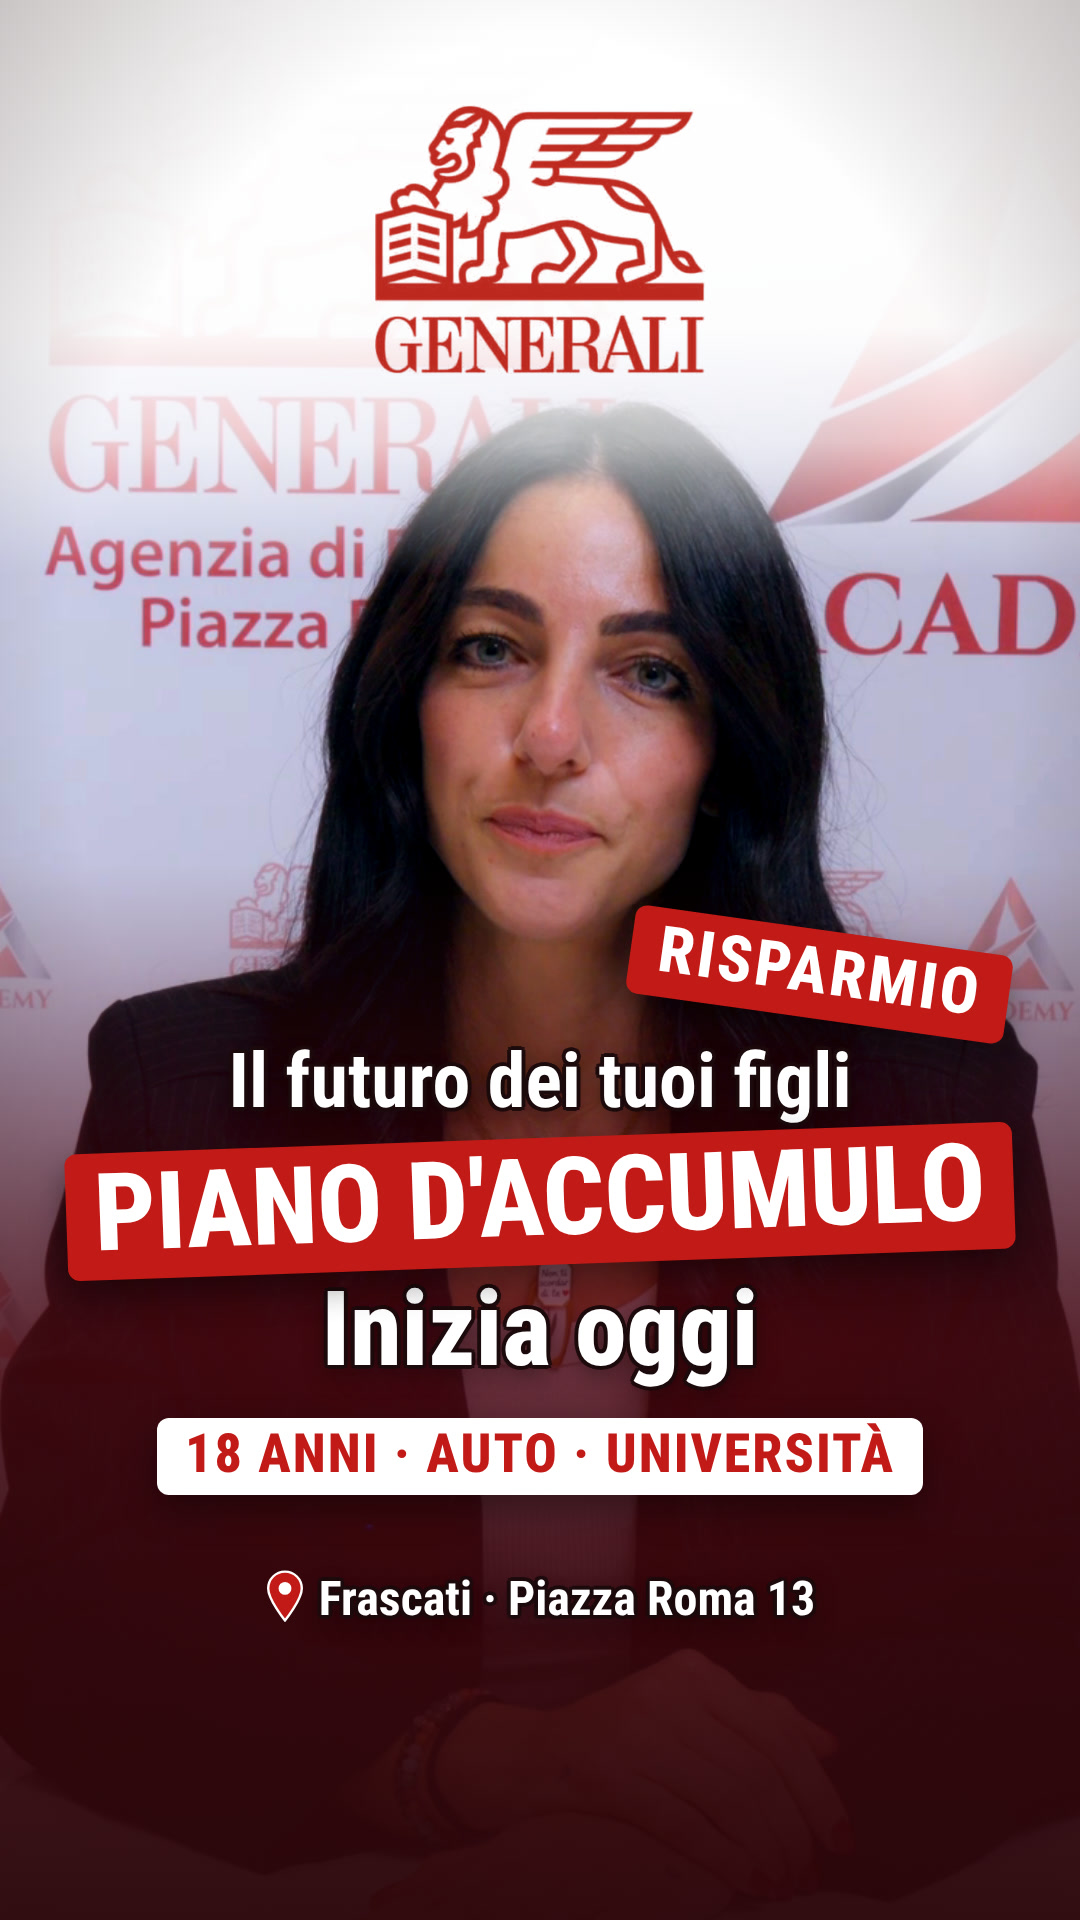
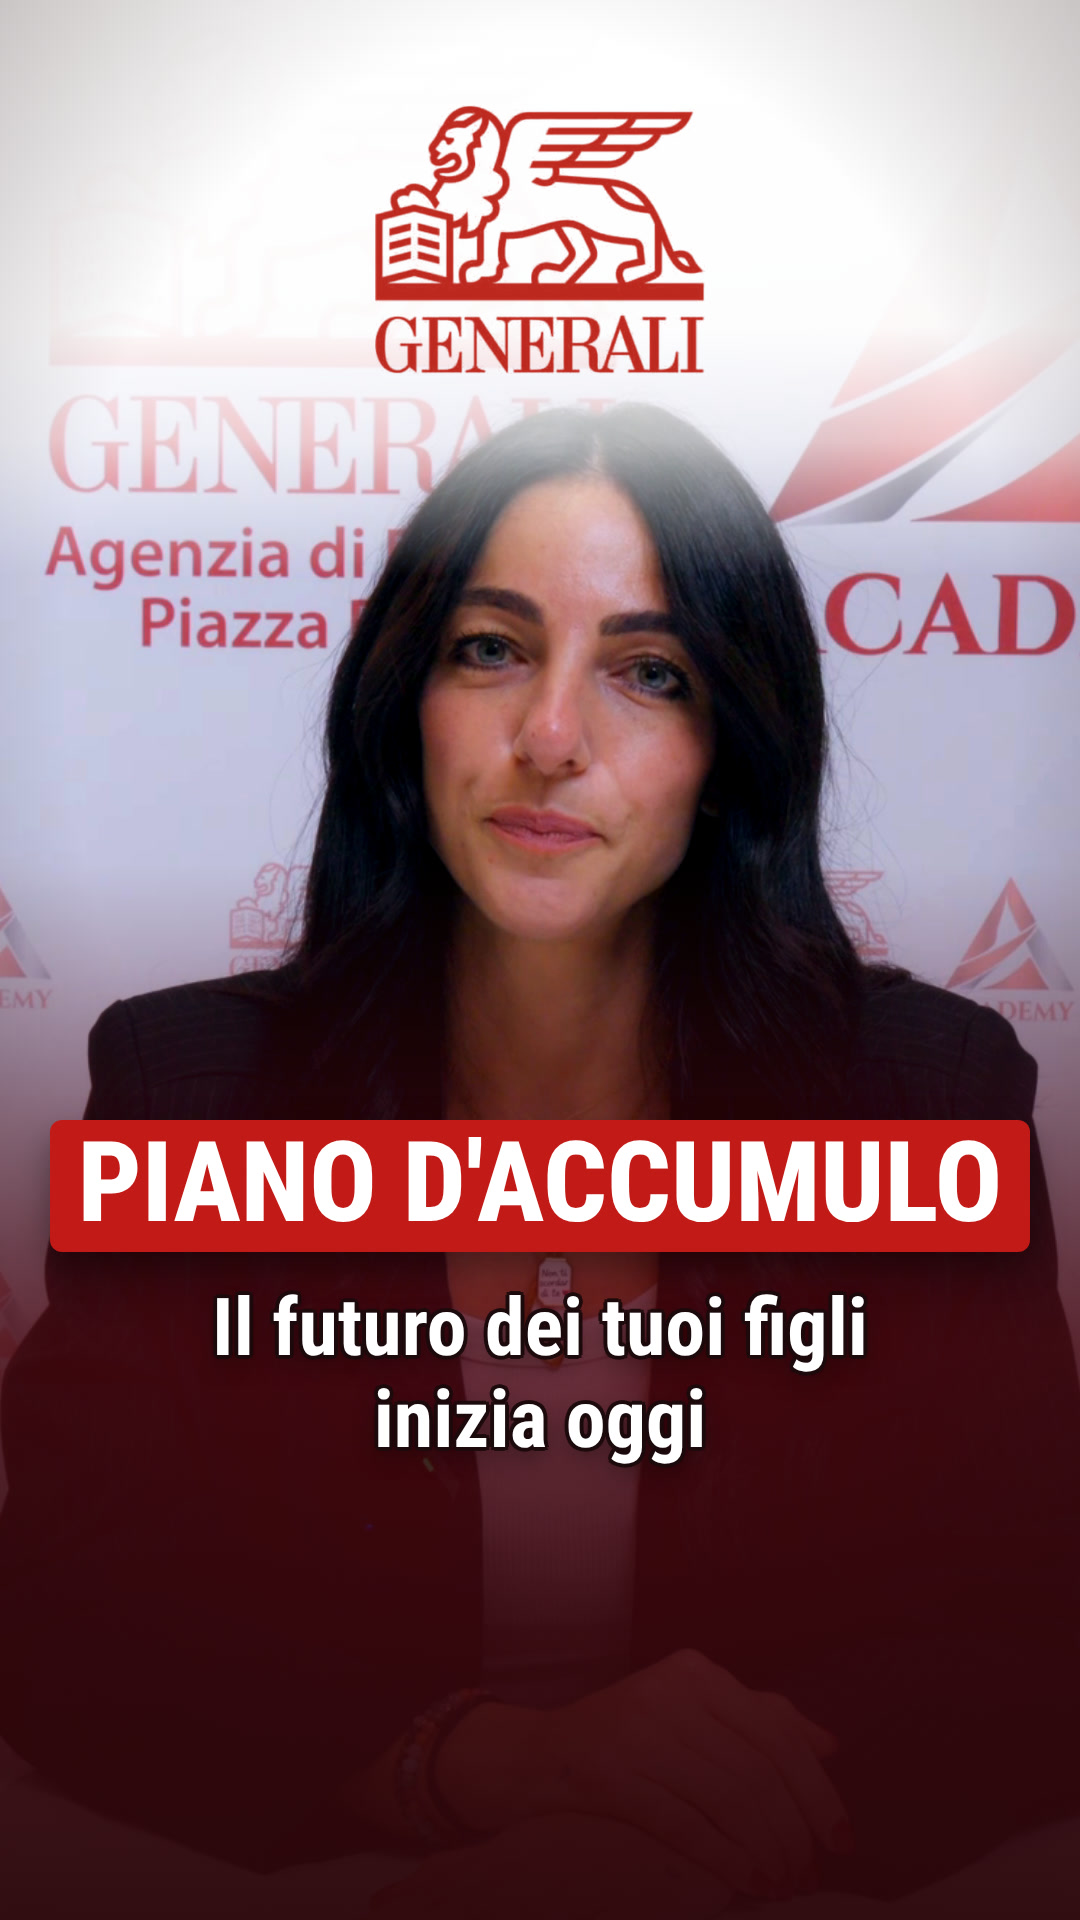
Piano d'accumulo cover: minimal headline
Claude-Session: https://claude.ai/code/session_01LWgMKfZcK3vgmuS8YKdfXv

Changed region(s): [[0.0306, 0.4688, 0.9778, 0.7812], [0.2444, 0.8125, 0.7639, 0.8438]]

diff --git a/src/PianoAccumulo/Cover.tsx b/src/PianoAccumulo/Cover.tsx
@@ -1,5 +1,4 @@
 import { AbsoluteFill, Img, staticFile } from "remotion";
-import { Pin } from "../ContoGenerali/Scenes";
 import { colors, condensed, outline } from "../ContoGenerali/theme";
 
 // 9:16 reel cover. The profile grid crops it to the central 3:4
@@ -56,82 +55,33 @@ export const PianoAccumuloCover: React.FC = () => (
       />
     </AbsoluteFill>
 
-    {/* sticker */}
-    <div
-      style={{
-        position: "absolute",
-        right: 70,
-        top: 930,
-        transform: "rotate(8deg)",
-        ...box(colors.red),
-        color: colors.white,
-        fontSize: 64,
-        fontWeight: 800,
-        letterSpacing: 3,
-      }}
-    >
-      RISPARMIO
-    </div>
-
     {/* headline */}
     <AbsoluteFill
       style={{
-        top: 1040,
+        top: 1120,
         alignItems: "center",
         textAlign: "center",
         color: colors.white,
         textShadow: outline,
       }}
     >
-      <div style={{ fontSize: 76, fontWeight: 700, lineHeight: 1.1 }}>
-        Il futuro dei tuoi figli
-      </div>
       <div
         style={{
           ...box(colors.red),
-          fontSize: 108,
+          fontSize: 112,
           whiteSpace: "nowrap",
           fontWeight: 800,
           lineHeight: 1.05,
-          margin: "14px 0 10px",
-          transform: "rotate(-2deg)",
+          marginBottom: 30,
         }}
       >
         PIANO D'ACCUMULO
       </div>
-      <div style={{ fontSize: 104, fontWeight: 800, lineHeight: 1.05 }}>
-        Inizia oggi
+      <div style={{ fontSize: 80, fontWeight: 700, lineHeight: 1.15 }}>
+        Il futuro dei tuoi figli
+        <br />
+        inizia oggi
       </div>
-      <div
-        style={{
-          ...box(colors.white),
-          color: colors.red,
-          fontSize: 54,
-          fontWeight: 800,
-          letterSpacing: 2,
-          marginTop: 34,
-        }}
-      >
-        18 ANNI · AUTO · UNIVERSITÀ
-      </div>
-    </AbsoluteFill>
-
-    {/* location */}
-    <AbsoluteFill
-      style={{
-        top: 1570,
-        flexDirection: "row",
-        justifyContent: "center",
-        alignItems: "flex-start",
-        gap: 14,
-        color: colors.white,
-        fontSize: 48,
-        fontWeight: 700,
-        textShadow: outline,
-      }}
-    >
-      <Pin size={40} />
-      <div>Frascati · Piazza Roma 13</div>
     </AbsoluteFill>
   </AbsoluteFill>
 );
